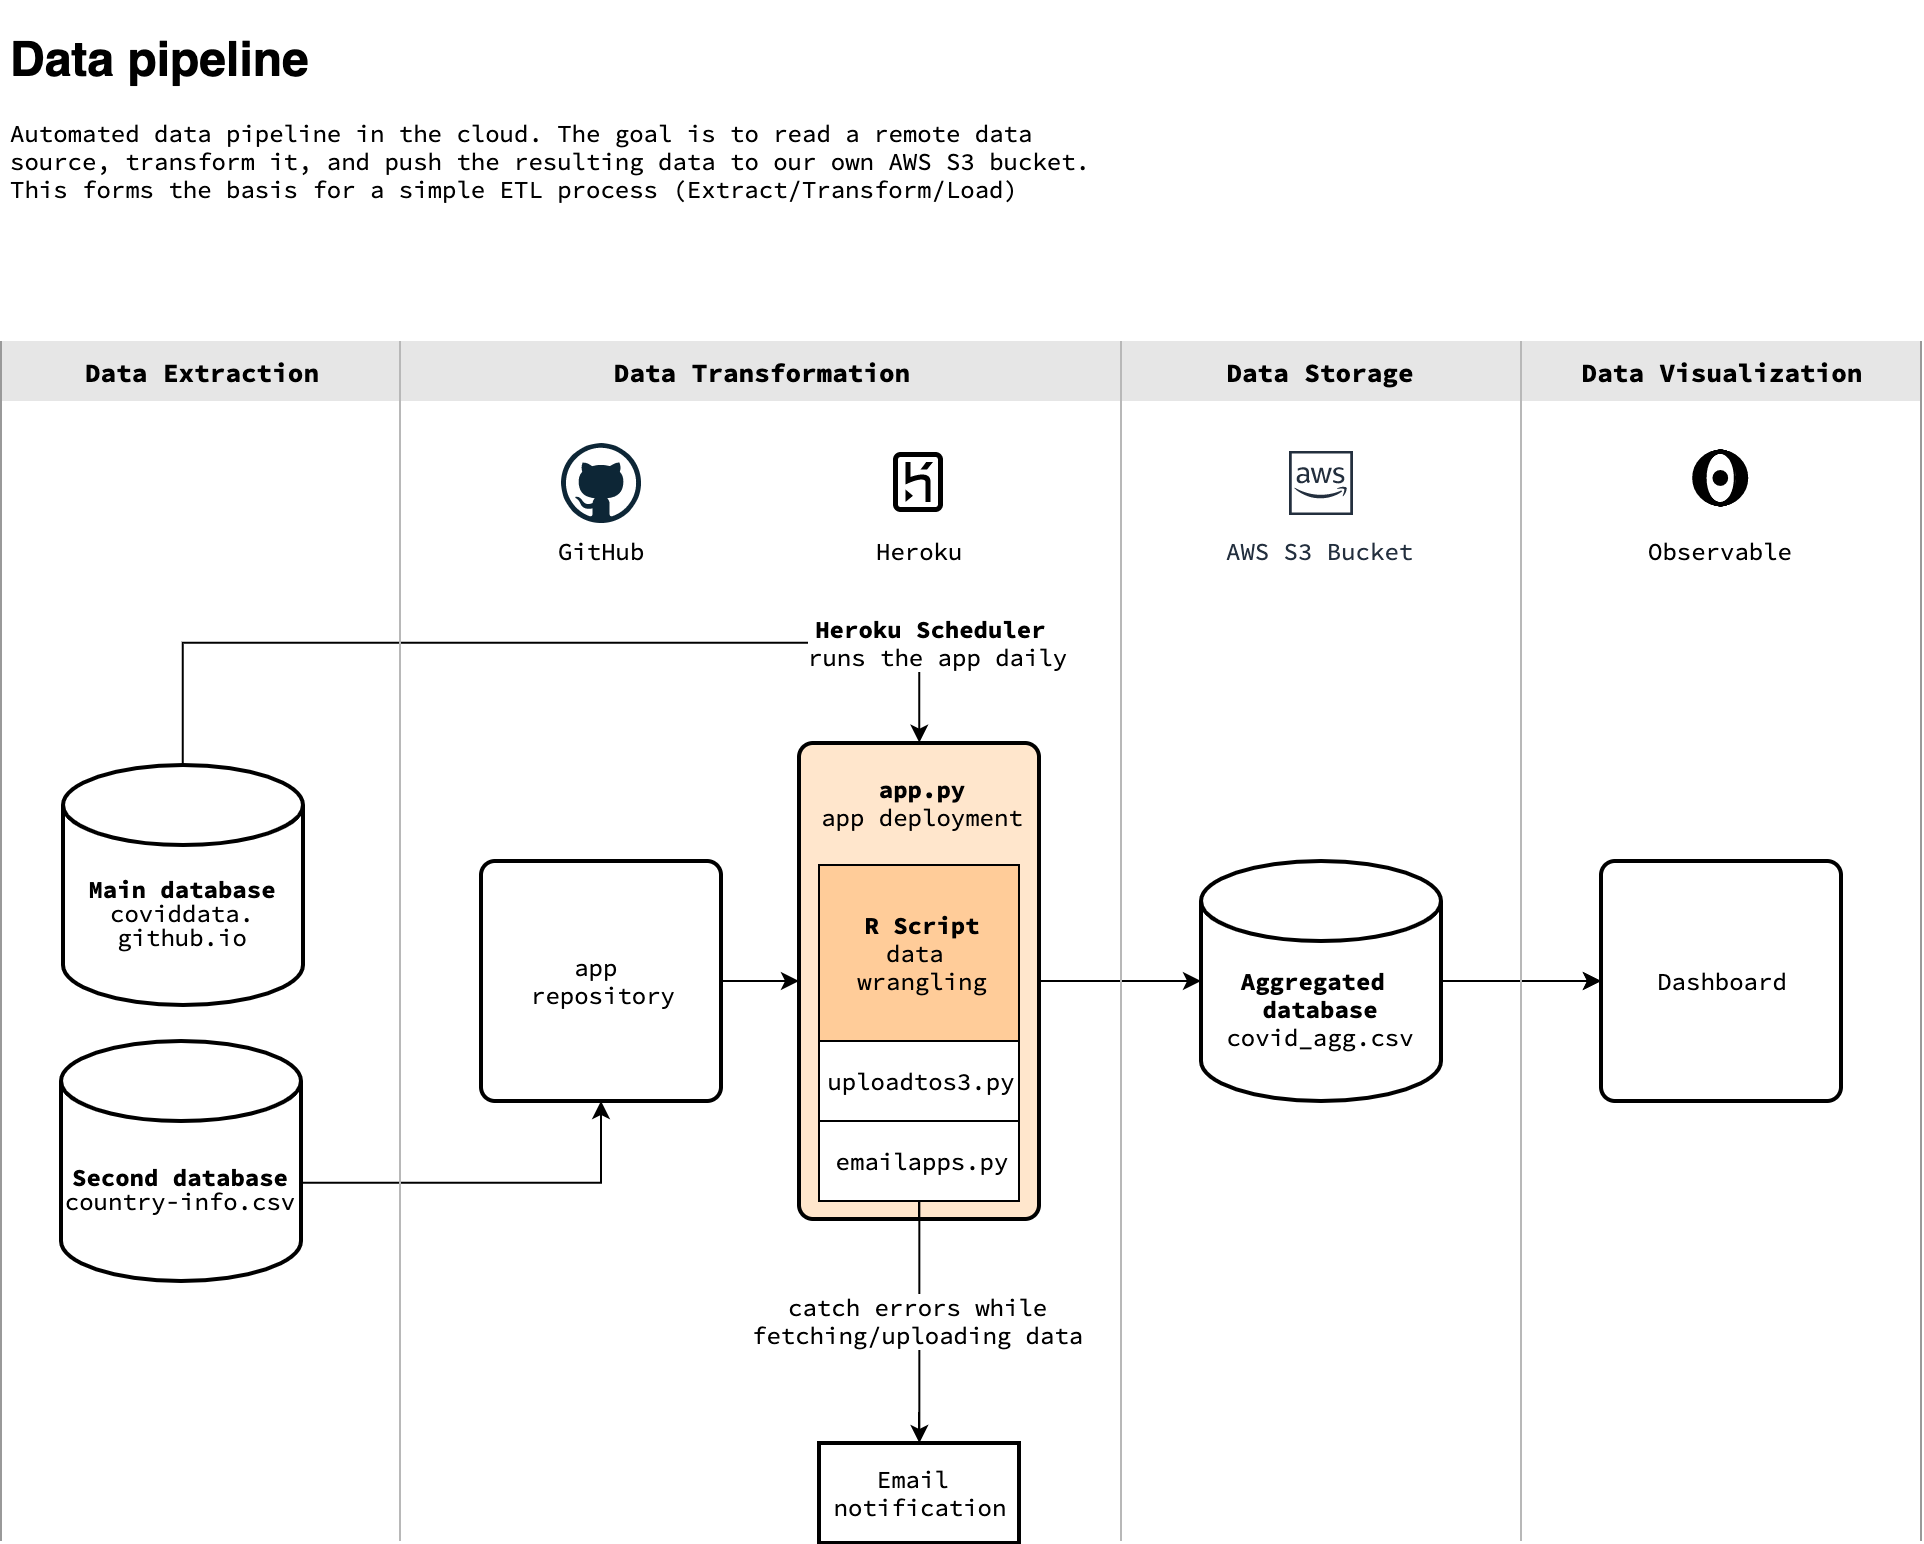
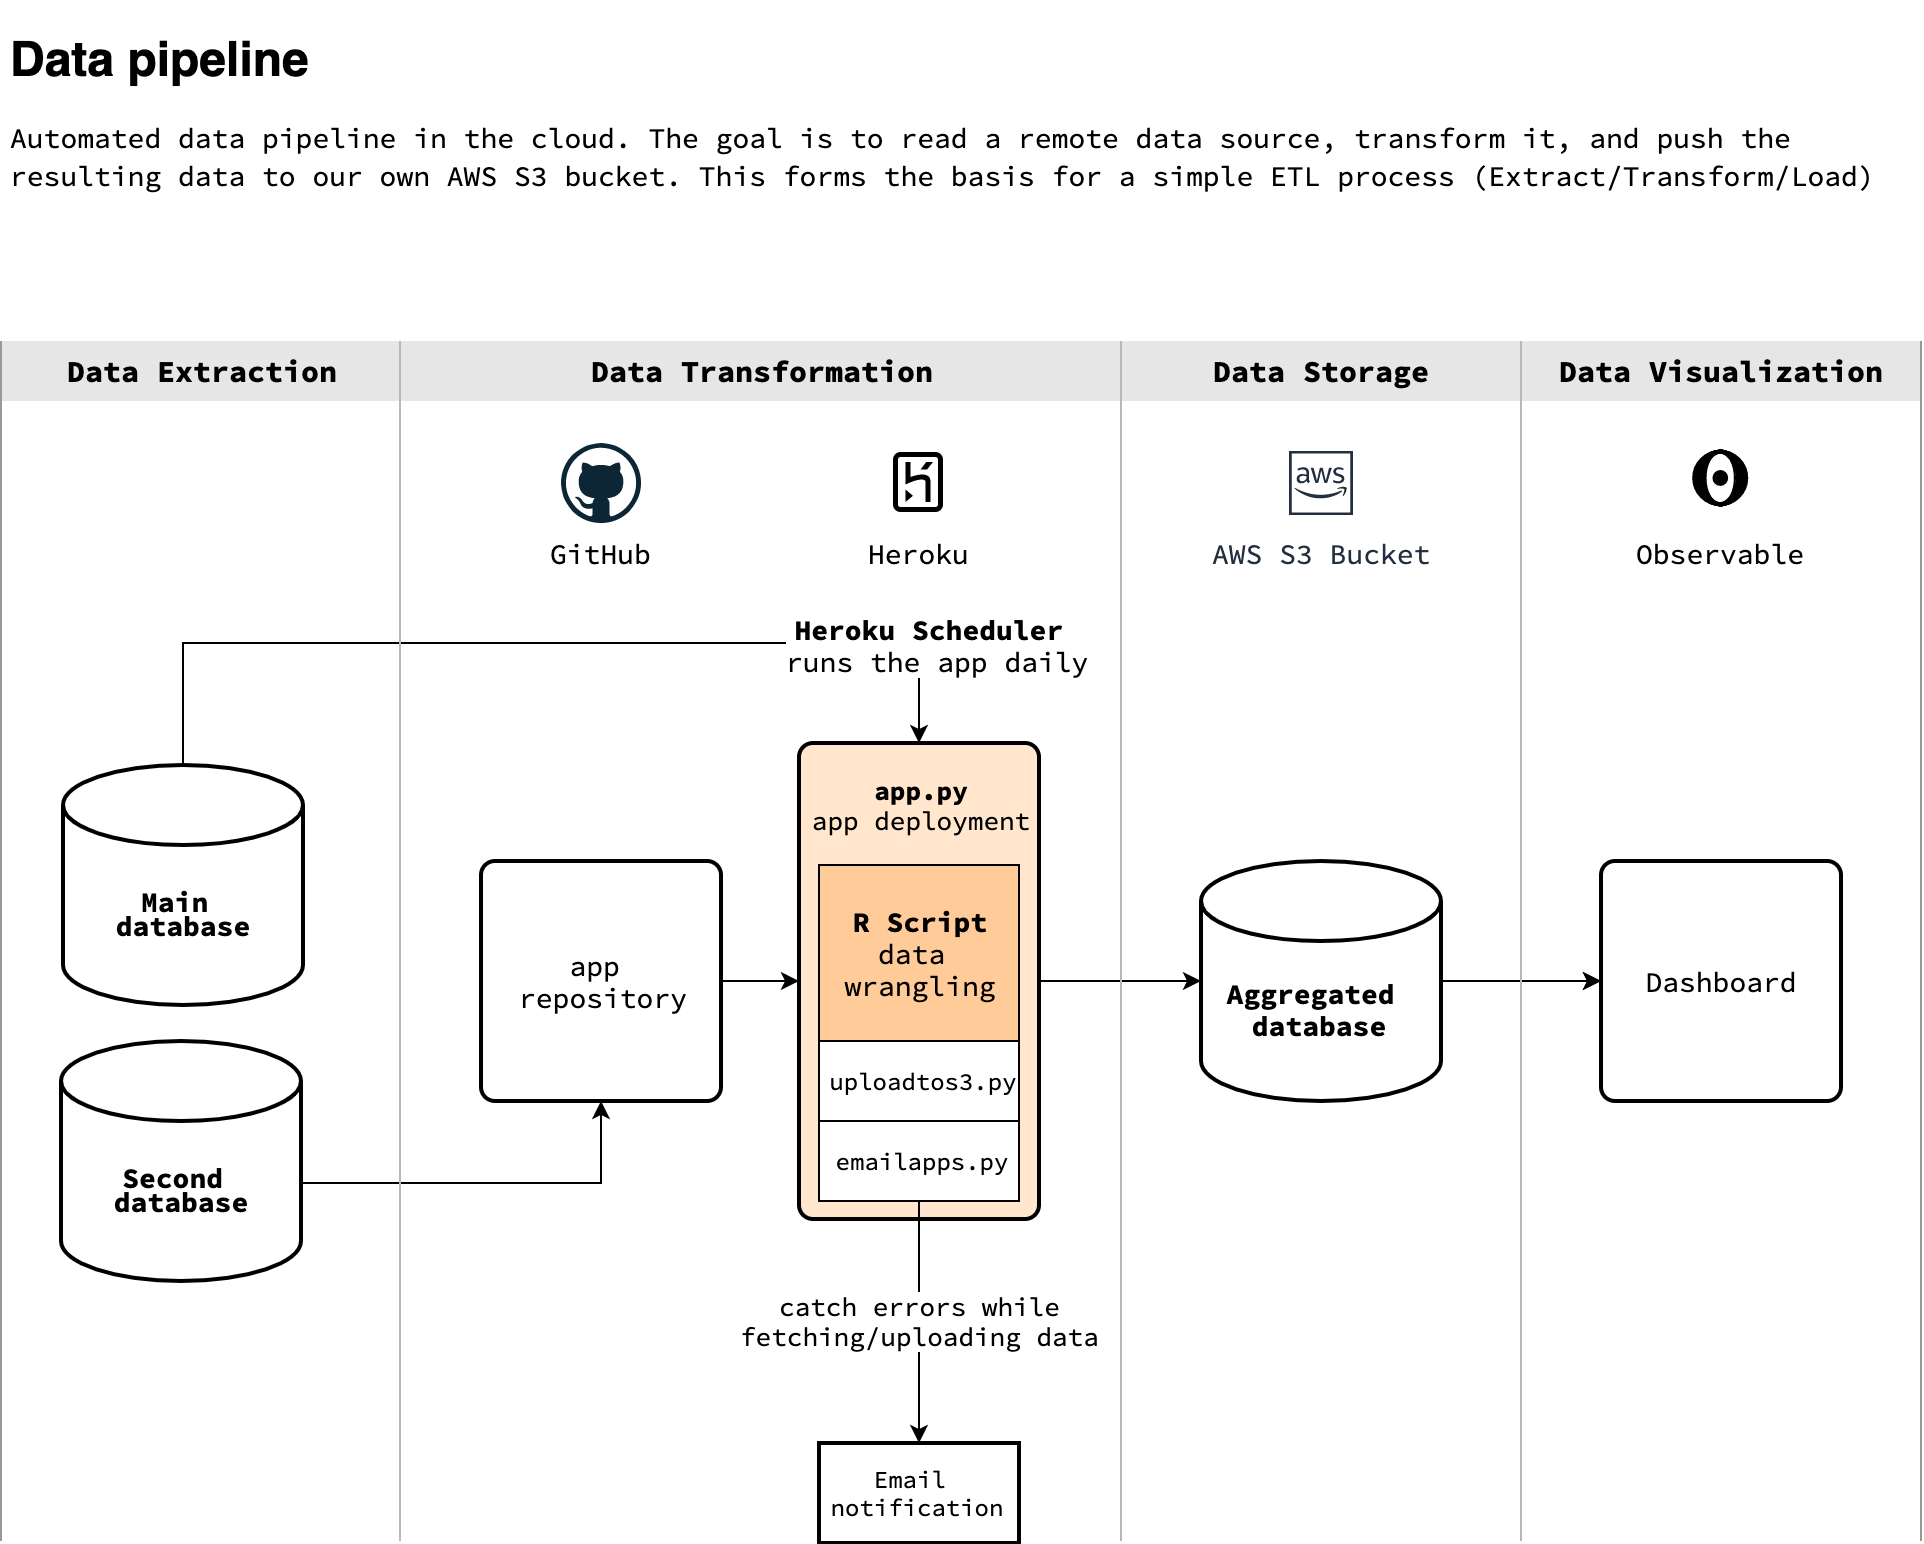
Fixed bugs

diff --git a/app.py b/app.py
@@ -18,7 +18,7 @@ if __name__ == "__main__":
         #runs the R Script
         this_file = os.path.abspath(__file__)
         os.chdir(os.path.dirname(this_file))
-        subprocess.run(["Rscript", "data_processing.R"])
+        subprocess.run(["Rscript", "PredictiveDaily.R"])
 
     except Exception as err:
         logging.error("Error fetching data: %s" % str(err) )

diff --git a/README.md b/README.md
@@ -9,13 +9,13 @@ Repository for the first trimester’s final project
     - Config specs with logging info for AWS/S3
 - **country-info.csv**
     - Second dataset with information of different countries 
-- **data_processing.R**
+- **PredictiveDaily.R**
     - R Scripts for Data Transformation 
 - **emailapps.py**
     - Scripts to send notifications emails with Python, if errors while fetching/uploading data
     - `en var` (environment variable) code to call the Gmail credentials on Heroku config vars.
 - **init.R**
-    - Code to install R packages
+    - Installs R packages on Heroku
 - **pipeline_flowchart**
     - A flow diagram visualising the pipeline.
 - **Procfile**
